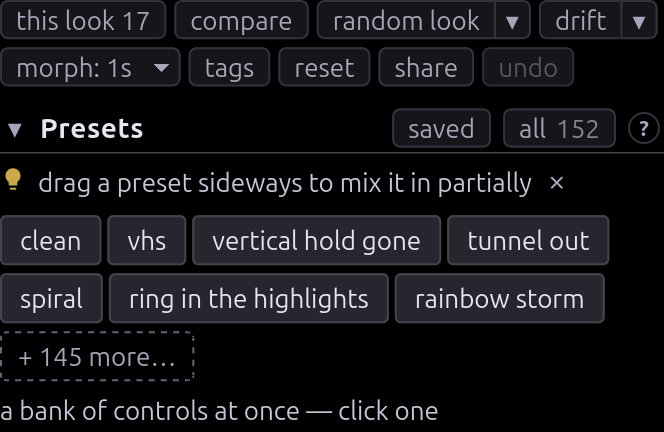
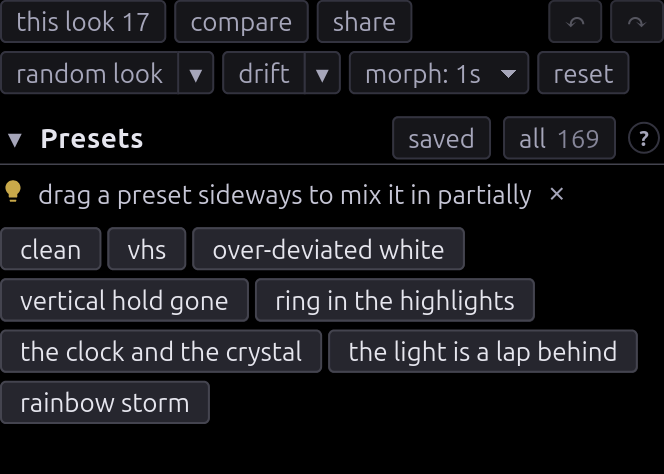
docs: retake the presets shot without the tags button
The caption now names what the picture shows.

diff --git a/docs/USER-GUIDE.md b/docs/USER-GUIDE.md
@@ -6,7 +6,7 @@ Everything past [Getting started](GETTING-STARTED.md).
 
 Click a preset to jump to it. Drag it sideways to blend it part-way in.
 
-![The head of the panel: a row of whole-board buttons (compare, random look and its ▾, drift, morph) over reset and undo, then the Presets shortlist of chips and the dashed handle to the rest](img/presets.png)
+![The head of the panel: this look, compare, share, undo and redo over random look, drift, morph and reset, then the Presets heading with its saved and all buttons over the shortlist of preset chips](img/presets.png)
 
 - **random nudge** keeps your look and moves it a little: everything already
   doing something, plus a few controls that weren't. `shift` for wilder, `alt`
